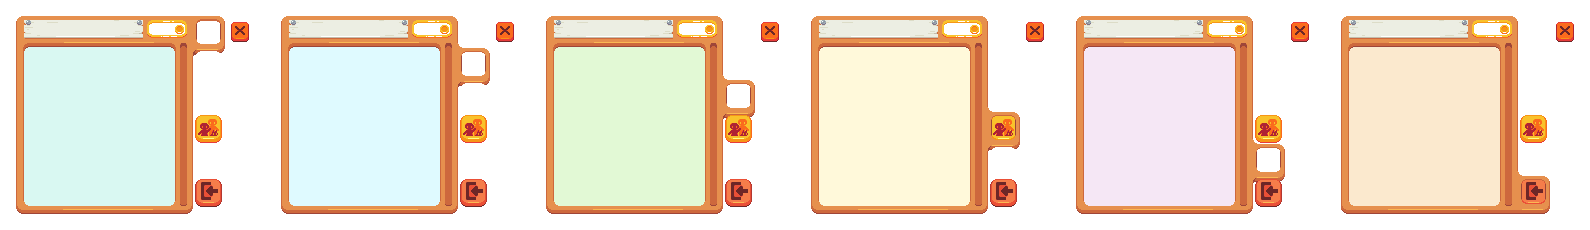
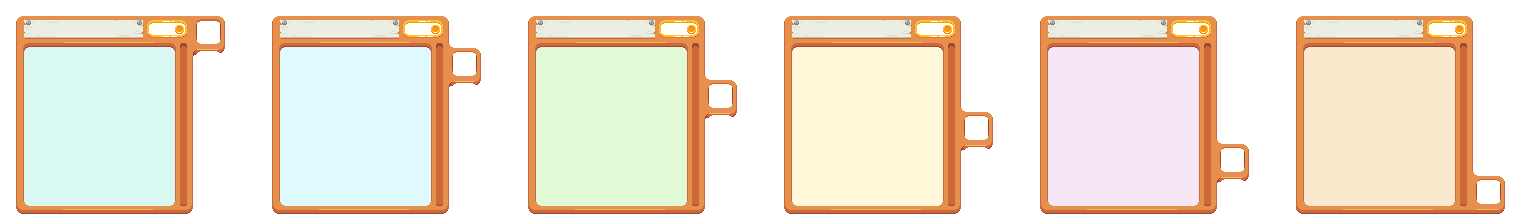
pog carry animation
title + items parabola effect

Changed region(s): [[0.0, 0.0625, 1.0, 0.9688]]

diff --git a/game_scripts/object_specific_scripts/item.py b/game_scripts/object_specific_scripts/item.py
@@ -1,6 +1,15 @@
 import math
 
 
+def parabolic_height(frame, target_height=6, max_height=10, total_frames=15):
+    last_frame = total_frames - 1
+
+    b = 2 * max_height / last_frame * (2 - target_height / max_height) ** 0.5
+    a = (target_height - b * last_frame) / (last_frame ** 2)
+
+    return a * frame ** 2 + b * frame
+
+
 class Item:
     def __init__(self, w, h):
         self.w = w
@@ -14,11 +23,28 @@ class Item:
         self.occupied = None
 
         self.picked_up = False
-        self.pickup_scale = 1
+        self.pickup_scale = 0
+
+        self.npc_info = None
+        self.npc_animation_info = None
+        self.deposited = False
+        self.number = 0
+
+        self.change_x = 0  # self.x and npc.x
+        self.old_x = 0
+
+        self.height = 6
+
+        self.original_x = None
+        self.npc_jumping_frames = [2, 4, 4, 0, 1, 4, 4, 0, 2]
+        self.max_animation_tick = 5
 
     def step(self, npc):
         general_info = npc["general_info"]
         scale = general_info["scale"]
+
+        if self.original_x is None:
+            self.original_x = general_info["x"]
 
         self.variable_pi += math.pi / 40
         if self.variable_pi >= math.pi * 2:
@@ -32,17 +58,37 @@ class Item:
         self.popup_scale = min(self.popup_scale + 1 / 10, 1)
         general_info["change_scale"] = self.popup_scale
 
+        general_info["y"] = self.h
+
         # picked up
         if self.picked_up:
-            self.pickup_scale -= 1 / 15
-
             if self.pickup_scale <= 0:
+                self.change_x = (self.npc_info["x"] - general_info["x"]) / 15 + (self.number - 2) * scale / 15 * 3
+                self.old_x = self.npc_info["x"]
+
+            self.pickup_scale = min(self.pickup_scale + 1 / 15, 1)
+
+            # parabolaaaaa baby
+            if self.pickup_scale < 1:
+                general_info["x"] += self.change_x
+            general_info["y"] -= parabolic_height(int(self.pickup_scale * 15), target_height=8, max_height=15) * scale
+
+            # follow npc
+            general_info["x"] -= self.old_x - self.npc_info["x"]
+            self.old_x = self.npc_info["x"]
+
+            # follow npc jumping
+            in_between_value = 0#self.npc_animation_info["animation_tick"] / self.max_animation_tick * (self.npc_jumping_frames[self.npc_animation_info["current_frame"]] - self.npc_jumping_frames[self.npc_animation_info["current_frame"] + 1])
+            general_info["y"] -= (self.npc_jumping_frames[self.npc_animation_info["current_frame"]] - in_between_value) * scale
+
+            if self.deposited:
                 return True  # destroy self
 
-        # hover effect
-        general_info["y"] = self.h + math.sin(self.variable_pi + general_info["x"] / 3) * scale * 1.5 - (1 - self.pickup_scale) * scale * 4
-        general_info["rotation"] = math.sin(self.variable_pi2 + general_info["x"] / 3) * 3
+        general_info["rotation"] = math.sin(self.variable_pi2 + self.original_x / 3) * 3
 
-        general_info["alpha"] = self.pickup_scale
+        if not self.pickup_scale:
+            general_info["y"] += math.sin(self.variable_pi + self.original_x / 3) * scale * 1.5
+
+        #general_info["alpha"] = 1 - self.pickup_scale
 
         return False

diff --git a/game_scripts/npc_logic.py b/game_scripts/npc_logic.py
@@ -18,11 +18,12 @@ class NPCManager:
         self.npcs = [
             self.create_npc(npc_type="storage_box", coords=[self.w // 2, self.h]),
             #self.create_npc(npc_type="longy"),
-            # self.create_npc(npc_type="pirate_female"),
-            # self.create_npc(npc_type="orc_male"),
-            # self.create_npc(npc_type="orc_female"),
-            # self.create_npc(npc_type="angel_male"),
-            # self.create_npc(npc_type="angel_female"),
+            self.create_npc(npc_type="pirate_male"),
+            self.create_npc(npc_type="pirate_female"),
+            self.create_npc(npc_type="orc_male"),
+            self.create_npc(npc_type="orc_female"),
+            self.create_npc(npc_type="angel_male"),
+            self.create_npc(npc_type="angel_female"),
         ]
 
         # for _ in range(7):
@@ -209,12 +210,18 @@ class NPCManager:
                         # check if item was picked up
                         if obj["parent_type"] == "item":
                             obj["custom_class"].picked_up = True
+                            obj["custom_class"].npc_info = info
+                            obj["custom_class"].npc_animation_info = animation_info
+                            obj["custom_class"].number = current_path
 
                         # check if storage reached
                         if obj["parent_type"] == "storage":
                             # send all items to storage first
                             for item in pathfinding[:-1]:
                                 obj["custom_class"].item_queue.append([item[1]["type"], 1])
+
+                                # and delete item
+                                item[1]["custom_class"].deposited = True
                             self.reset_actions(actions)
 
                 else:

diff --git a/game_scripts/game.py b/game_scripts/game.py
@@ -84,8 +84,8 @@ class Game:
 
                     continue  # skip everything, as npc is terminated
 
-            # npc is moving and NOT doing an action
-            if not action_info["doing_action"]:
+            # npc is moving and NOT doing an action ( AND NPC IS NOTTTTT AN ITEM
+            if not action_info["doing_action"] and npc["parent_type"] != "item":
                 if general_info["x"] != prev_x:
                     if action_info["action_type"] != "carrying": self.animations.switch_animation(npc, "run")
                     general_info["xscale"] = math.copysign(1, general_info["x"] - prev_x)
